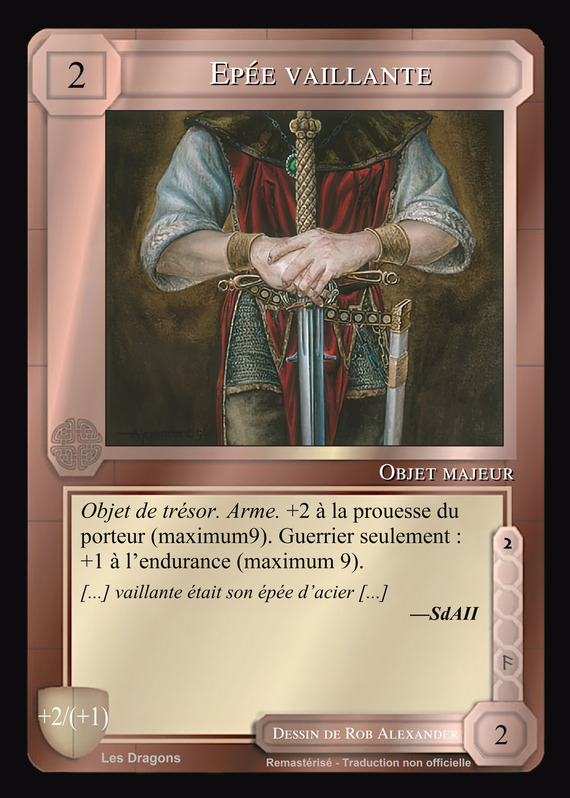
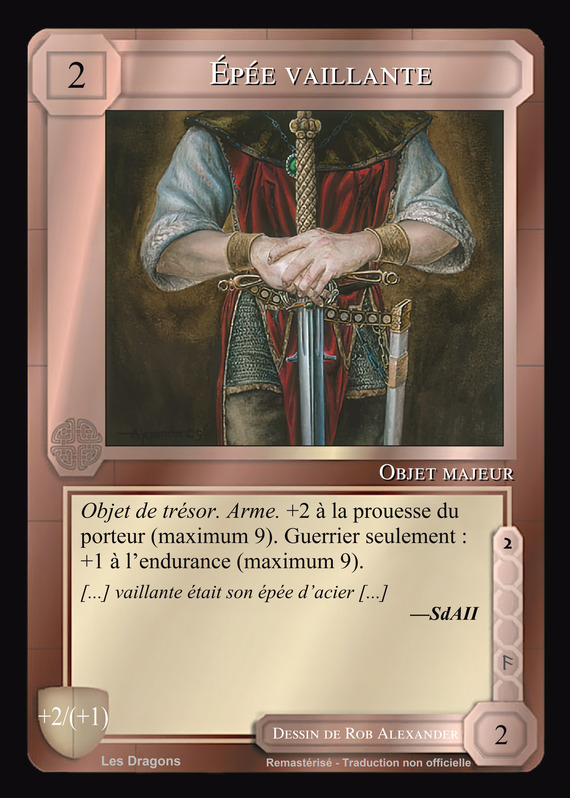
17.05.2025

Changed region(s): [[0.4175, 0.6617, 0.8053, 0.6917], [0.1789, 0.9323, 0.3281, 0.9624]]

diff --git a/README.md b/README.md
@@ -10,6 +10,7 @@ __en phase de relecture__
 
 __dernières mise-à-jour__
 
+* 27.05.05 : modifications mineures (Épée vaillante (TD), Coupe-Jarret (TW))
 * 07.05.25 : modifications mineures (Montagnes Brumeuses (TW), Plateau (TW))
 * 25.04.25 : modifications mineures (Île des morts qui vivent TW/LE, Dernière engeance d'Ungoliant DM, Hommes des Bois LE)
 * 28.02.25 : ajout d'un dossier avec des 'maps' VF
